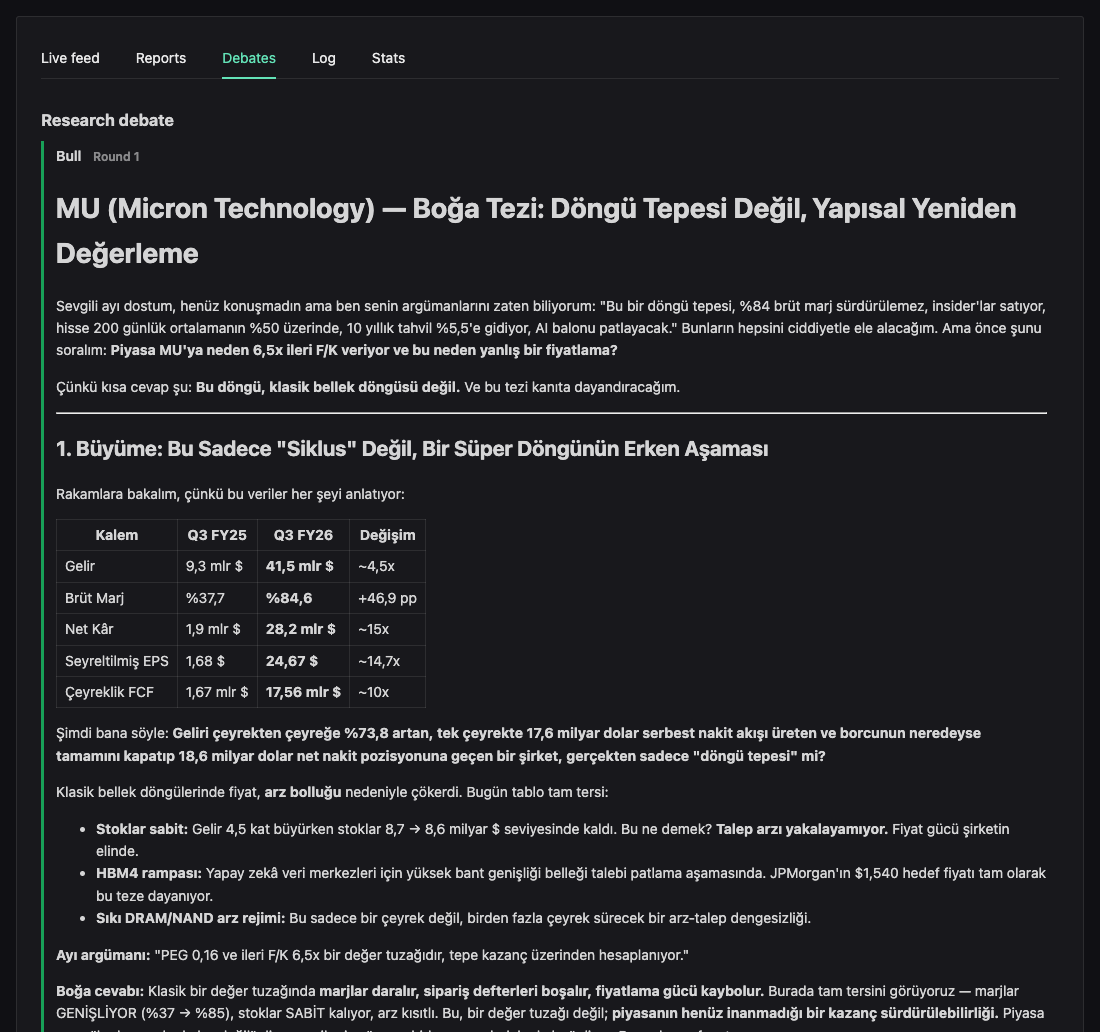
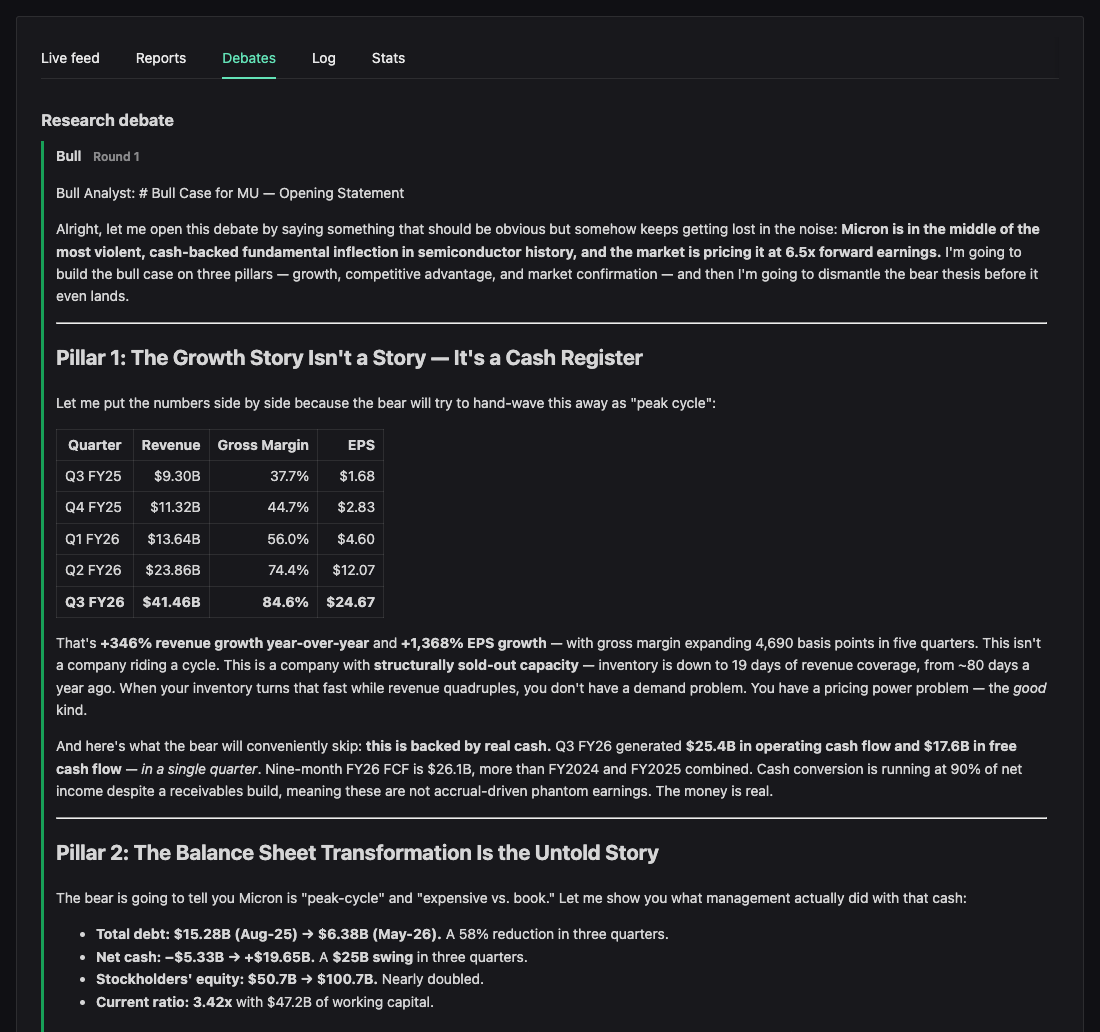
README: English screenshots from an English MU run, live-run view

Changed region(s): [[0.0309, 0.186, 0.9582, 1.0]]

diff --git a/README.md b/README.md
@@ -68,8 +68,10 @@ Press **Start analysis**. **Save as preset** keeps the provider, model and analy
 The analysis page updates live: the agent pipeline (analysts → research debate → trader → risk
 debate → portfolio manager), a feed of agent messages and tool calls, the runner log, and token
 counts. A full run with all four analysts can take 20 minutes or more, depending on the model and
-the debate rounds (the example above: 42 LLM calls, ~1.6M input tokens, 20 minutes). **Stop** ends it; **Run again**
+the debate rounds (the example above: 41 LLM calls, ~1.1M input tokens, 18 minutes). **Stop** ends it; **Run again**
 repeats it with the same settings.
+
+![A running analysis: pipeline status and the live feed](docs/screenshots/run-live.png)
 
 When it finishes, the decision card shows the portfolio manager's rating (Buy / Overweight / Hold /
 Underweight / Sell) with its reasoning, and the tabs hold everything behind it:
@@ -88,13 +90,15 @@ Runs made with the TradingAgents CLI are imported from `~/.tradingagents/logs` (
 
 ![Analyses list](docs/screenshots/analyses.png)
 
+The **Dashboard** shows the running analyses and the latest decisions at a glance.
+
+![Dashboard](docs/screenshots/dashboard.png)
+
 ### Language
 
 The UI is Turkish by default; switch to English in the header (the choice is remembered per
 browser). Reports stay in the language the analysis was started with; the analysis page shows it
-as a "Report language" tag.
-
-![Dashboard in Turkish](docs/screenshots/dashboard-tr.png)
+as a "Report language" tag. The screenshots above are the English UI with an analysis run in English.
 
 ## Commands
 
